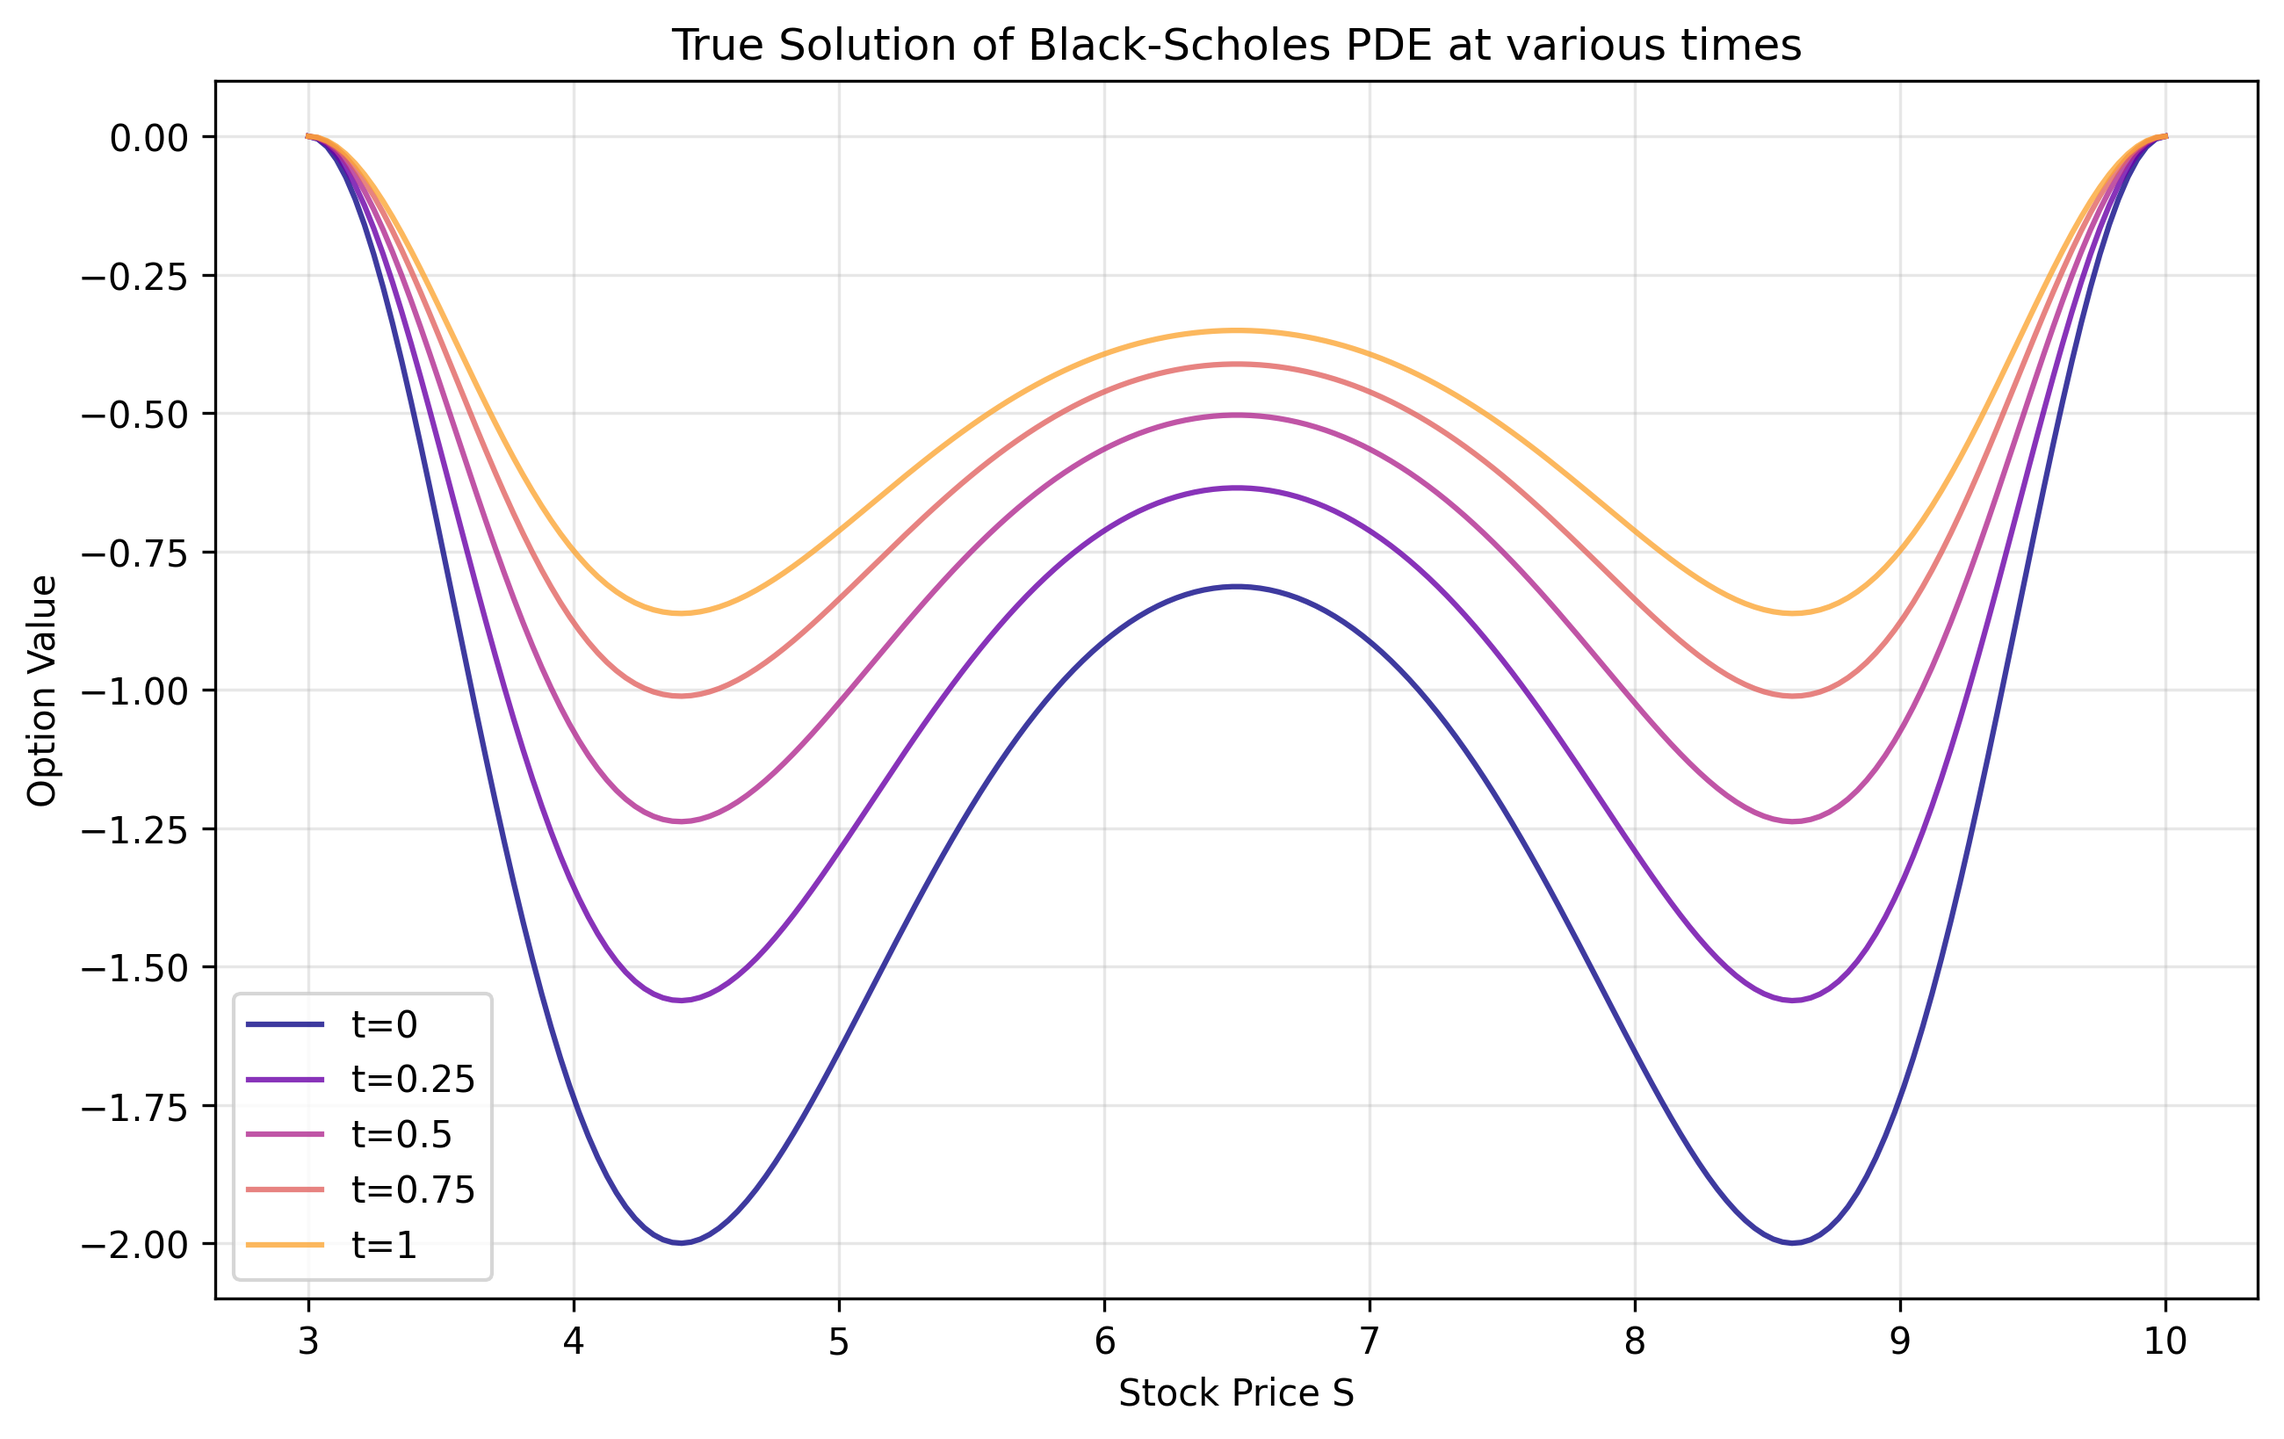
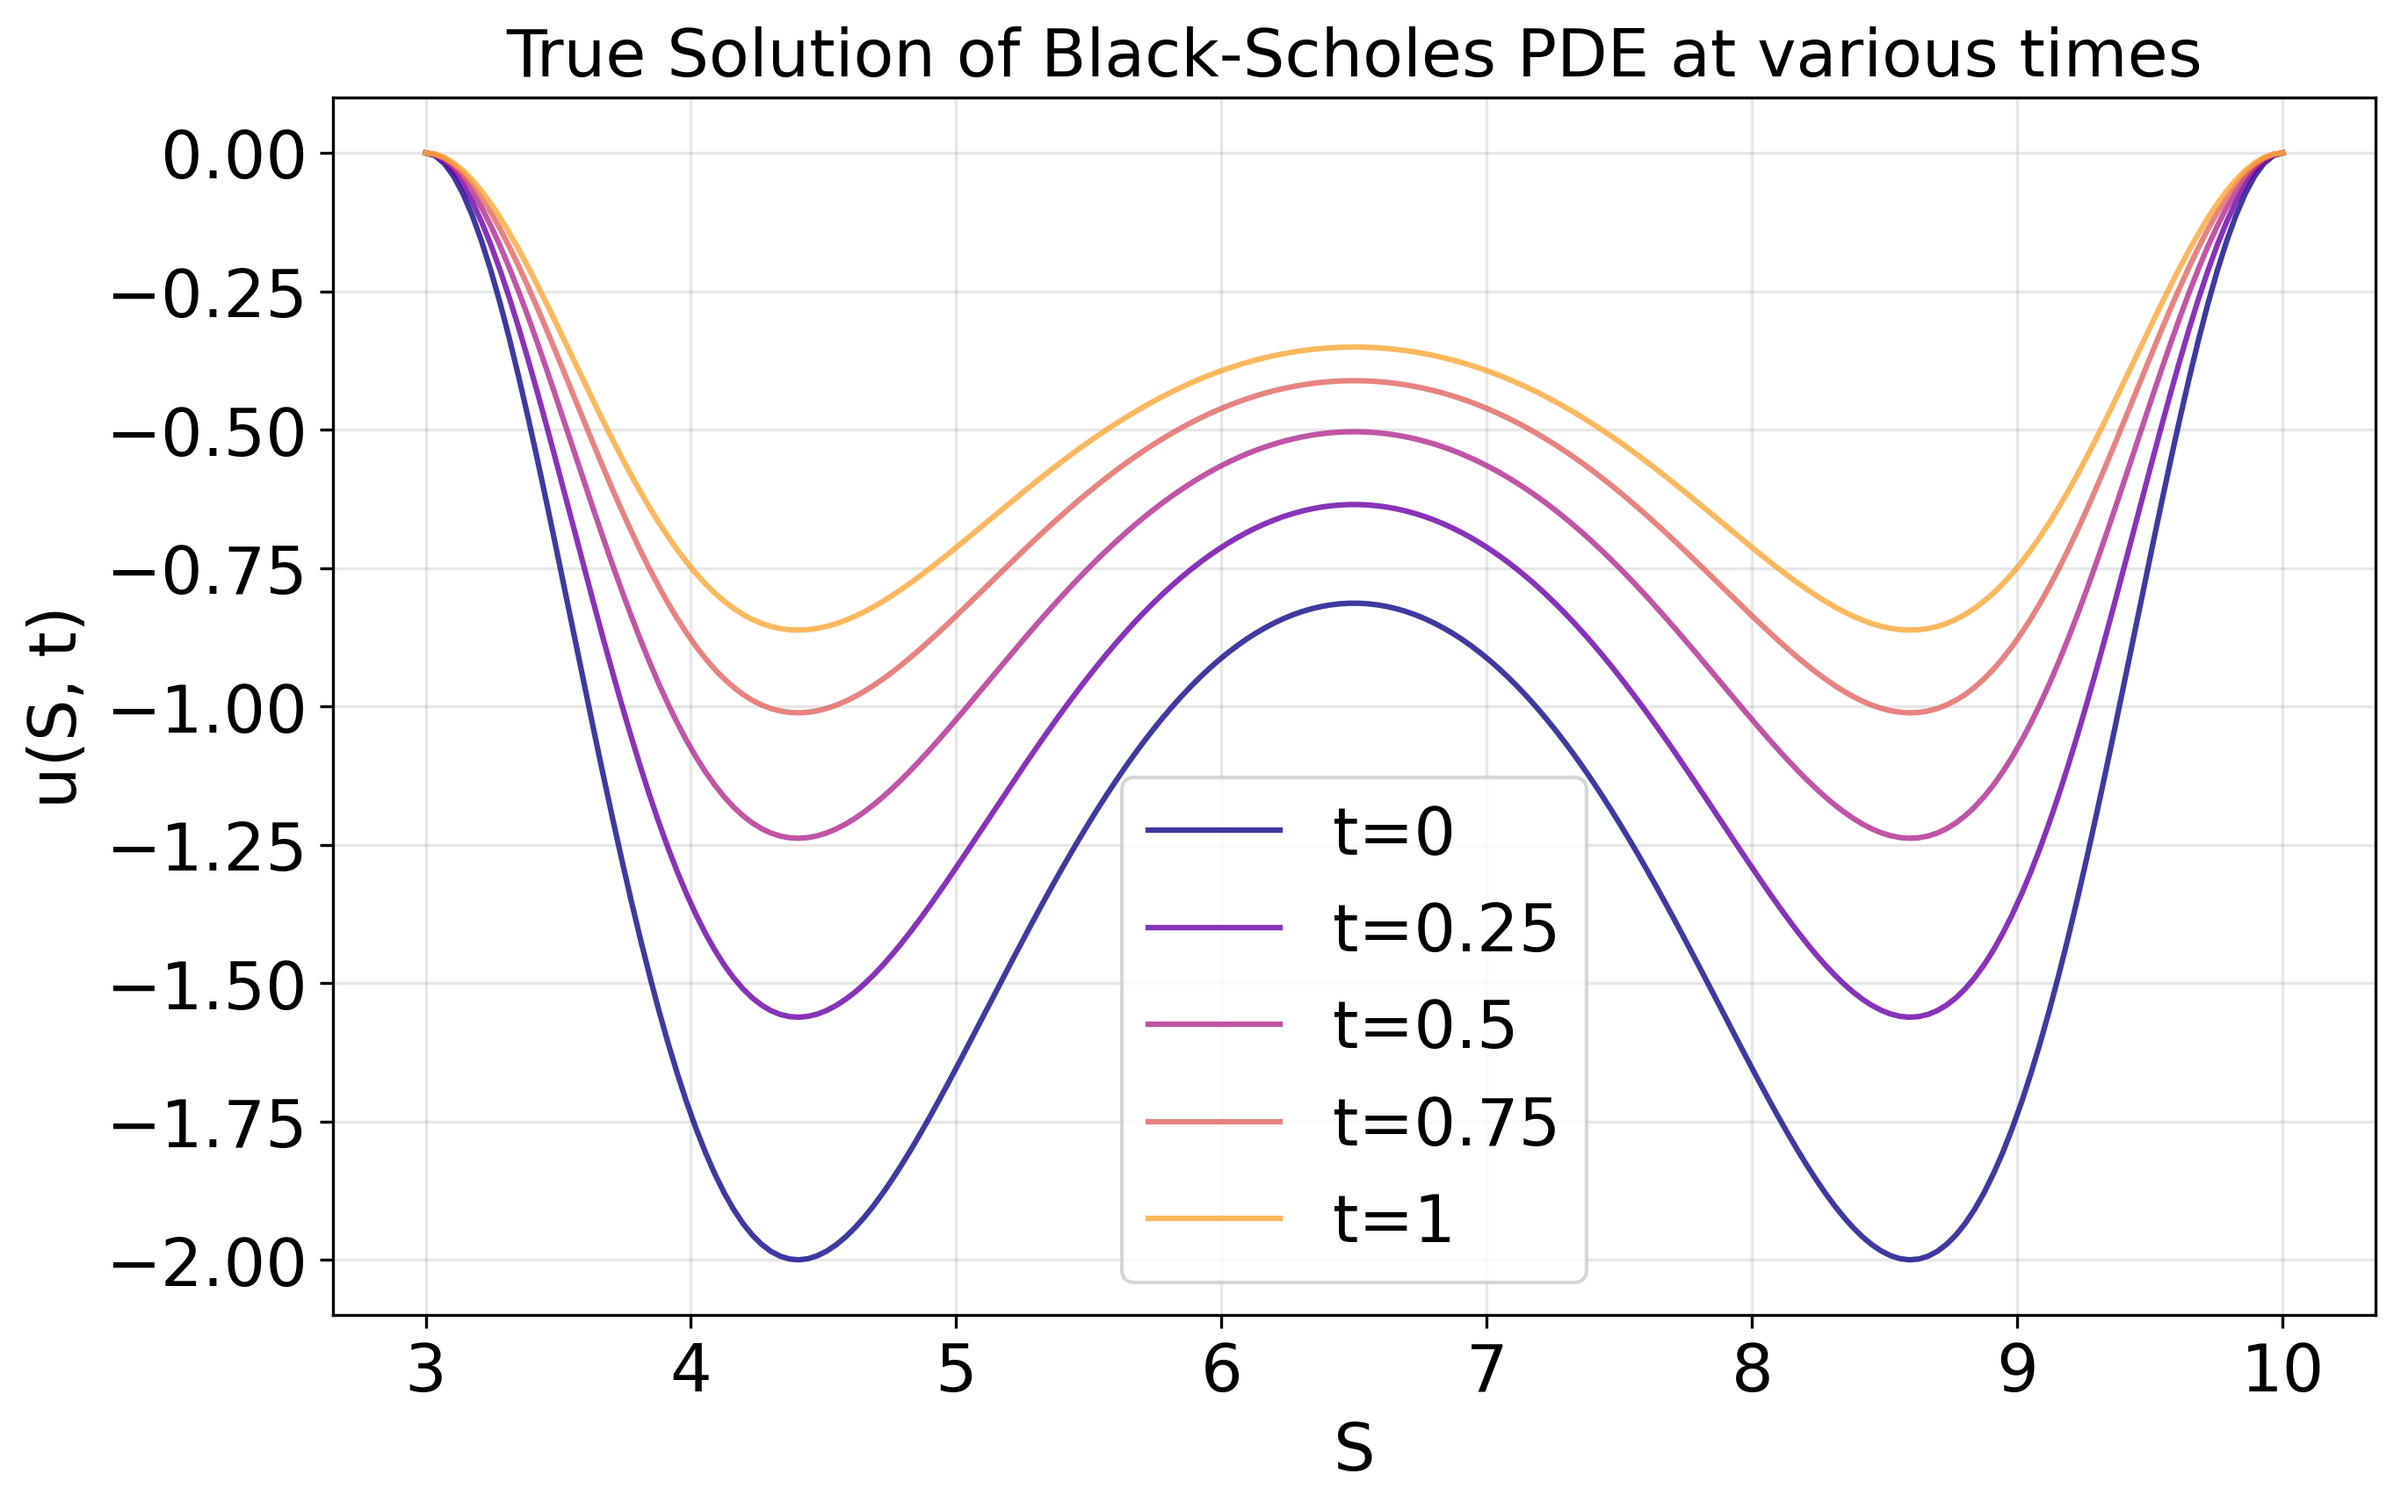
Increased font size of images

diff --git a/code/main.py b/code/main.py
@@ -10,11 +10,22 @@ from fem_solver import FEMSolver
 from black_scholes_pde import *
 
 # Flags to control which parts of the code to run
-COMPUTE_EXAMPLE_1 = False
-COMPUTE_EXAMPLE_2 = False
+COMPUTE_EXAMPLE_1 = True
+COMPUTE_EXAMPLE_2 = True
 COMPUTE_ANALYTICAL = True
 # The convergence study is computationally expensive, so it can be disabled
 COMPUTE_CONVERGENCE_STUDY = True
+
+# Set font size for plots
+GLOBAL_FONT_SIZE = 18
+plt.rcParams.update({
+    'font.size': GLOBAL_FONT_SIZE,
+    'axes.titlesize': GLOBAL_FONT_SIZE,
+    'axes.labelsize': GLOBAL_FONT_SIZE,
+    'xtick.labelsize': GLOBAL_FONT_SIZE,
+    'ytick.labelsize': GLOBAL_FONT_SIZE,
+    'legend.fontsize': GLOBAL_FONT_SIZE
+})
 
 def assert_order_delta_t_vs_h2(pde, element_count, timesteps_per_element):
     """
@@ -153,20 +164,26 @@ def test_fem_vs_analytical(pde: BaseBlackScholes,
         # Compute the analytical solution at the final time
         analytical_plot = pde.true_sol(S_plot, final_time)
 
+        # Add max error to the plots
+        final_max_error_for_plot = np.max(np.abs(fem_plot - analytical_plot))
+
         # Plot the functions
         axes[i].plot(S_plot, analytical_plot, 'b-', label='Analytical', linewidth=2)
-        axes[i].plot(S_plot, fem_plot, 'r--', label='FEM', linewidth=2)
+        axes[i].plot(S_plot, fem_plot, 'r--', label='FEM (Max Error: {:.4f})'.format(final_max_error_for_plot), linewidth=2)
         axes[i].set_title(f'{label} at t={final_time:.2f}')
-        axes[i].set_xlabel('Stock Price S')
-        axes[i].set_ylabel('Option Value')
+        axes[i].set_xlabel('S')
+        axes[i].set_ylabel('u(S, t)')
         axes[i].legend(loc=9)
         axes[i].grid(True, alpha=0.3)
         
-        # Add max error to the plots
-        final_max_error_for_plot = np.max(np.abs(fem_plot - analytical_plot))
-        axes[i].text(0.05, 0.95, f'Max Error: {final_max_error_for_plot:.4f}', 
-                     transform=axes[i].transAxes, verticalalignment='top',
-                     bbox=dict(boxstyle='round', facecolor='wheat', alpha=0.8))
+        
+        # axes[i].text(
+        #     0.5, 0.05, f'Max Error: {final_max_error_for_plot:.4f}',
+        #     transform=axes[i].transAxes,
+        #     horizontalalignment='center',
+        #     verticalalignment='bottom',
+        #     bbox=dict(boxstyle='round', facecolor='wheat', alpha=0.8, )
+        # )
     
     plt.tight_layout()
     plt.savefig(f"./code/images/fem_vs_analytical_{pde.__class__.__name__}.png", dpi=300, bbox_inches='tight')
@@ -343,8 +360,8 @@ if __name__ == "__main__":
             true_sol = pde.true_sol(S_plot_true_sol, t)
             plt.plot(S_plot_true_sol, true_sol, label=f't={t}', color=color, alpha=0.8)
         plt.title('True Solution of Black-Scholes PDE at various times')
-        plt.xlabel('Stock Price S')
-        plt.ylabel('Option Value')
+        plt.xlabel('S')
+        plt.ylabel('u(S, t)')
         plt.legend()
         plt.grid(True, alpha=0.3)
         plt.savefig("./code/images/true_constructed_cos.png", dpi=300, bbox_inches='tight')
@@ -397,8 +414,8 @@ if __name__ == "__main__":
             true_sol = pde.true_sol(S_plot_true_sol, t)
             plt.plot(S_plot_true_sol, true_sol, label=f'True Solution at t={t}', color=color, alpha=0.8)
         plt.title('True Solution of Black-Scholes PDE at various times')
-        plt.xlabel('Stock Price S')
-        plt.ylabel('Option Value')
+        plt.xlabel('S')
+        plt.ylabel('u(S, t)')
         plt.legend()
         plt.grid(True, alpha=0.3)
         plt.savefig("./code/images/true_constructed_poly.png", dpi=300, bbox_inches='tight')
